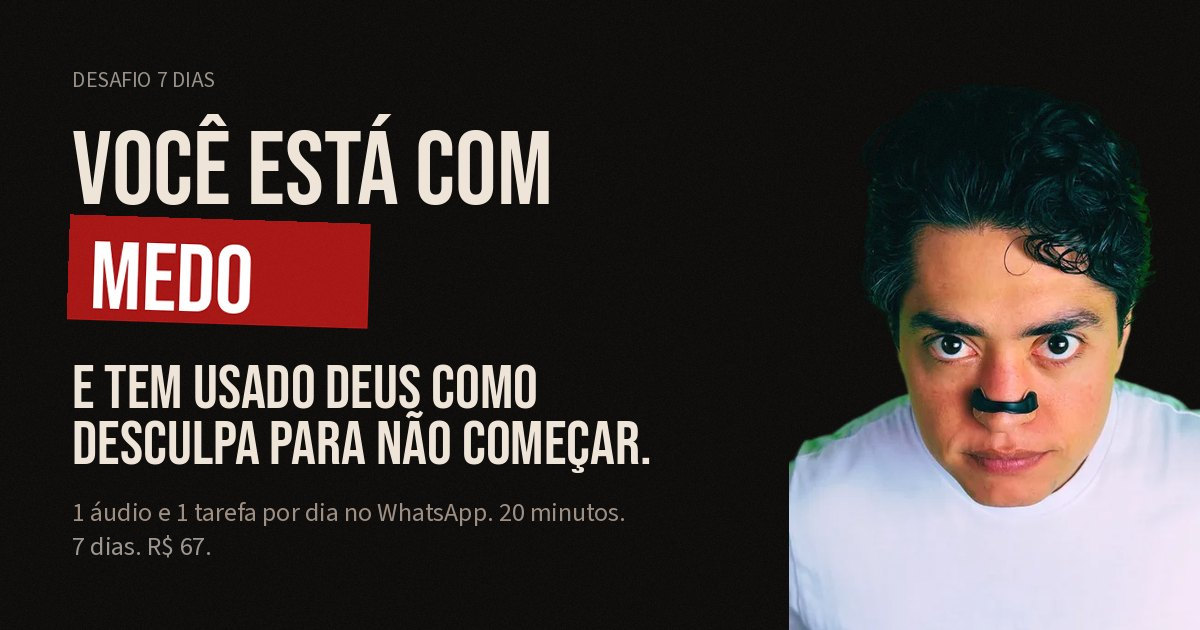
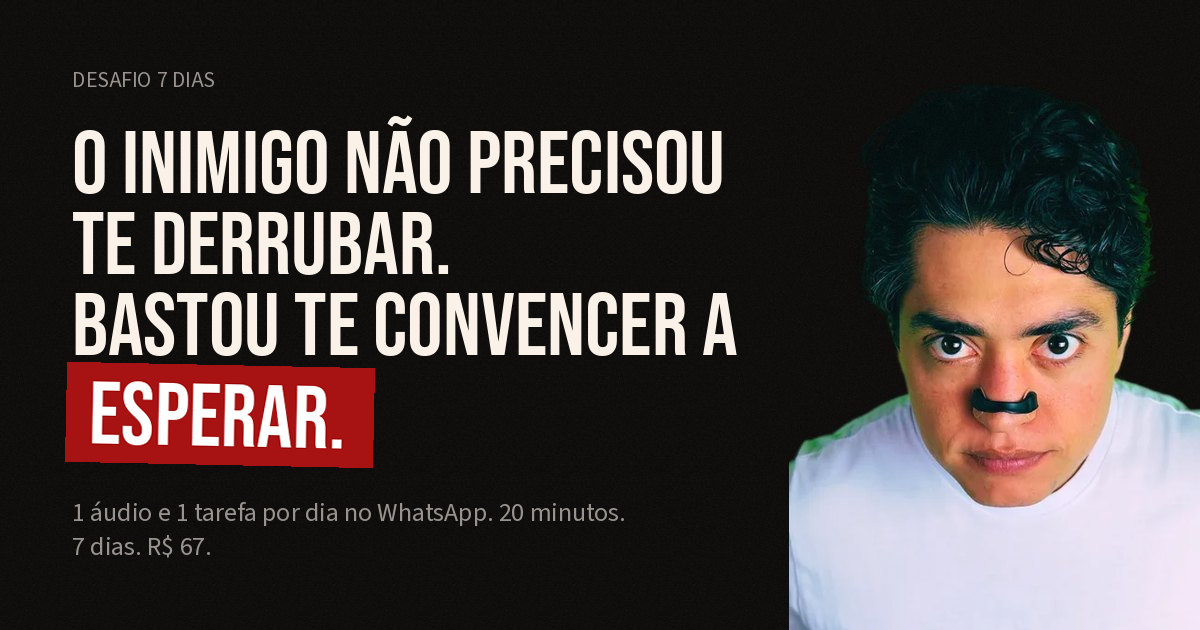
Angulo novo: o inimigo como antagonista da pagina
Aplica o documento de anotacoes do mentor no v7, adaptado de 21 para 7 dias.
Entram: como-funciona (headline, sub e as 3 fases), card de bonus, headline e
sub da oferta, secao do Ewertton inteira, fecho da garantia, FAQ inteiro e CTA
final. O botao final vira "Quero desenterrar meu talento".

Hero trocado: "Voce esta com medo / e tem usado Deus como desculpa" da lugar a
"O inimigo nao precisou te derrubar / Bastou te convencer a esperar". Mesma
altura renderizada no mobile, 309px em 6 linhas num container de 350px, entao
a dobra nao regride. og-image.jpg refeita com a headline nova, mesmas fontes
(Bebas Neue e Source Sans 3), carimbo --blood em "ESPERAR." e a foto original
preservada pixel a pixel.

Secao problema alinhada ao angulo em 4 pontos, incluindo o cabecalho da tabela
e o aria-label dela.

Bonus corrigido pra oferta real do produto de 7 dias: 1 aula liberada no dia 7
pra quem mostra o resultado, e 1:1 de 20 minutos pra quem enviou resultado
todos os dias. Era "2 aulas + 30 min ao completar". A ancora de R$ 497 fica.
O 1:1 volta pro FAQ "E depois dos 7 dias?", de onde a versao do documento
tinha tirado.

Selo da oferta passa de "Preco de lancamento" para "Vagas limitadas".

Desvio consciente do documento: no FAQ de tecnologia ele dizia "responder ao
audio de 20 minutos por dia". O audio e de 2 min e a tarefa e de 20; publicar
como estava criava contradicao com o hero na mesma pagina.

Changed region(s): [[0.0308, 0.181, 0.6167, 0.754]]

diff --git a/index.html b/index.html
@@ -21,7 +21,7 @@
   <meta property="og:image" content="https://ebravoholding.com/pages/desafios/v7/og-image.jpg">
   <meta property="og:image:width" content="1200">
   <meta property="og:image:height" content="630">
-  <meta property="og:image:alt" content="Você está com medo e tem usado Deus como desculpa para não começar. Desafio 7 Dias.">
+  <meta property="og:image:alt" content="O inimigo não precisou te derrubar. Bastou te convencer a esperar. Desafio 7 Dias.">
   <meta name="twitter:card" content="summary_large_image">
   <meta name="twitter:image" content="https://ebravoholding.com/pages/desafios/v7/og-image.jpg">
   <!-- Favicon -->
@@ -713,11 +713,11 @@
         <div>
           <span class="hero-eyebrow">Desafio 7 Dias &middot; O Talento Enterrado</span>
           <h1>
-            <span class="hero-h1-p1"><span class="text-accent">Você está com medo</span><br>e tem usado Deus como desculpa para não começar.</span>
+            <span class="hero-h1-p1">O inimigo não precisou te derrubar.<br>Bastou te convencer a <span class="text-accent">esperar.</span></span>
             <span class="hero-h1-p2">Todo dia, 7h da manhã no seu WhatsApp: 1 áudio de 2min e 1 tarefa prática.</span>
           </h1>
           <p class="hero-sub">
-            20 minutos por dia, 7 dias, pra parar de enterrar o que Deus te deu e começar a multiplicar.
+            20 minutos por dia, 7 dias, pra desenterrar o que Deus te deu e retomar o terreno que o inimigo tomou.
           </p>
           <div class="hero-cta-wrap">
             <a href="https://pay.hotmart.com/W105539649V?checkoutMode=10" class="btn btn--lg" target="_blank"
@@ -882,20 +882,20 @@
       <h2 class="fade-up">
         <span class="problema-h1-p1">"Esperar o tempo de Deus"<br>virou o seu <span
             class="text-accent">esconderijo.</span></span>
-        <span class="problema-h1-p2">Não é preguiça. É medo travestido de espiritualidade.</span>
+        <span class="problema-h1-p2">Não é preguiça. É o inimigo usando o medo travestido de espiritualidade.</span>
       </h2>
       <div class="problema-body fade-up">
         <p>Você ora pelo seu chamado e adia o que Ele já mandou fazer. A lista cresce, o domingo à noite pesa, e no
           fundo bate a frase que você não diz em voz alta: "tenho medo que Deus se decepcione comigo por eu não estar
-          usando o que Ele me deu."</p>
+          usando o que Ele me deu." Essa frase não nasceu em você. Foi plantada.</p>
         <p style="margin-top:1rem">Na Parábola dos Talentos, o servo não foi repreendido por tentar e errar. Foi
           repreendido por <strong>enterrar o talento com medo.</strong></p>
       </div>
       <div class="fade-up" style="transition-delay:0.1s; overflow-x:auto; margin-top:2.5rem;">
-        <table class="vs-table" role="table" aria-label="A mentira que te paralisa vs a verdade que liberta">
+        <table class="vs-table" role="table" aria-label="A mentira que o inimigo te vendeu vs a verdade que liberta">
           <thead>
             <tr>
-              <th class="col-before">A mentira que te paralisa</th>
+              <th class="col-before">A mentira que o inimigo te vendeu</th>
               <th class="col-vs">VS</th>
               <th class="col-after">A verdade que liberta</th>
             </tr>
@@ -919,7 +919,7 @@
           </tbody>
         </table>
       </div>
-      <p class="problema-hook fade-up">A saída não é esperar mais. É começar a caminhar.</p>
+      <p class="problema-hook fade-up">A saída não é esperar mais. É retomar o terreno.</p>
       <div class="fade-up" style="text-align:center; margin-top:1.75rem">
         <a href="https://pay.hotmart.com/W105539649V?checkoutMode=10" class="btn btn--lg" target="_blank"
           rel="noopener">
@@ -934,28 +934,31 @@
 ============================================================ -->
   <section id="como-funciona" class="section--xl">
     <div class="container">
-      <h2 class="cf-headline fade-up">7 dias. 1 tarefa<br>por dia. <span class="text-accent">Talento
-          desenterrado.</span></h2>
-      <p class="cf-sub fade-up">E cada dia constrói sobre o anterior, como uma corrente que não pode quebrar.</p>
+      <h2 class="cf-headline fade-up">7 dias. 1 tarefa<br>por dia. <span class="text-accent">Território
+          reconquistado.</span></h2>
+      <p class="cf-sub fade-up">Cada dia quebra um elo da corrente que o inimigo usou pra te manter parado.</p>
 
       <div class="fases-grid">
         <div class="fase-card fade-up" style="transition-delay:0.05s">
           <div class="fase-num" aria-hidden="true">01</div>
           <div class="fase-label">Dias 1 e 2, Recebe segundo sua capacidade</div>
           <p class="fase-desc">Você esvazia a mente: joga toda pendência num lugar só, o Surrão, e resolve na hora tudo
-            que leva menos de 2 minutos. O peso que você carregou por anos sai em dias.</p>
+            que leva menos de 2 minutos. O caos mental que o inimigo usava pra te paralisar perde o esconderijo, porque
+            confusão é ferramenta dele (1 Coríntios 14:33), não sua identidade.</p>
         </div>
         <div class="fase-card fade-up" style="transition-delay:0.10s">
           <div class="fase-num" aria-hidden="true">02</div>
           <div class="fase-label">Dias 3 a 5, Negocia e multiplica</div>
-          <p class="fase-desc">Você para de apagar incêndio. Separa o que muda sua vida em 6 meses do que só grita
-            urgente, dá hora marcada pra isso e finalmente nomeia o projeto que vinha enterrando.</p>
+          <p class="fase-desc">Você para de viver apagando incêndio que o inimigo ateia pra te distrair do que realmente
+            importa. Separa o que muda sua vida em 6 meses do que só grita urgência, dá hora marcada e finalmente nomeia
+            o projeto que vinha sendo sufocado.</p>
         </div>
         <div class="fase-card fade-up" style="transition-delay:0.15s">
           <div class="fase-num" aria-hidden="true">03</div>
           <div class="fase-label">Dias 6 e 7, Presta contas e entra no gozo</div>
-          <p class="fase-desc">O sistema vira hábito. Você presta contas com honestidade (passou de 50%, já é vitória) e
-            termina vendo, preto no branco, quem você deixou de ser.</p>
+          <p class="fase-desc">O sistema vira hábito e a fortaleza cai de vez. Você presta contas com honestidade diante
+            de Deus (passou de 50%, já é vitória sobre o adiamento) e termina vendo, preto no branco, quantos dias você
+            reconquistou do inimigo.</p>
         </div>
       </div>
 
@@ -1117,10 +1120,10 @@
                  (display:flex) ele virava item de flex ao lado do ícone e quebrava em 3 linhas.
                  O CSS do .bonus-tag (inline-block + margin-bottom) já era escrito pra este lugar. -->
             <span class="bonus-tag">Bônus &middot; R$ 497</span>
-            <div class="entregavel-title">Bônus: 2 aulas + Sessão 1:1</div>
-            <p class="entregavel-desc">Duas aulas bônus: "O que são projetos" e "Google Tasks + Agenda +
-              Drive". Mais uma sessão 1:1 de 30 minutos comigo pra quem completa os 7 dias e envia o
-              progresso.</p>
+            <div class="entregavel-title">Bônus: aula + Sessão 1:1</div>
+            <p class="entregavel-desc">Aula bônus liberada no dia 7, pra quem mostra o resultado da semana. Mais uma
+              sessão 1:1 de 20 minutos comigo pra quem enviou o resultado todos os dias, porque ninguém sai da fortaleza
+              sozinho e eu não vou te deixar lutar essa guerra sem cobertura.</p>
           </div>
         </div>
 
@@ -1234,12 +1237,14 @@
 ============================================================ -->
   <section id="oferta" class="section--xl section--paper">
     <div class="container">
-      <h2 class="oferta-headline fade-up">Quanto vale<br><span class="text-accent">Multiplicar um talento?</span></h2>
-      <p class="oferta-sub fade-up">O preço sobe quando encerrar esse lançamento. Sem data certa. Quando fechar, fecha.
+      <h2 class="oferta-headline fade-up">Quanto vale multiplicar o talento<br><span class="text-accent">que o inimigo
+          queria ver enterrado pra sempre?</span></h2>
+      <p class="oferta-sub fade-up">O preço sobe quando encerrar esse lançamento. Sem data certa. Quando fechar, fecha,
+        assim como as portas que você não atravessou nos últimos anos.
       </p>
 
       <div class="oferta-box fade-up">
-        <span class="oferta-tag">Preço de lançamento</span>
+        <span class="oferta-tag">Vagas limitadas</span>
 
         <ul class="oferta-checklist" aria-label="O que está incluído">
           <li>
@@ -1275,7 +1280,7 @@
               aria-hidden="true">
               <polyline points="20 6 9 17 4 12" />
             </svg>
-            <strong>2 aulas bônus + Sessão 1:1 de 30 min ao completar &middot; bônus R$ 497</strong>
+            <strong>Aula bônus no dia 7 + Sessão 1:1 de 20 min &middot; bônus R$ 497</strong>
           </li>
         </ul>
 
@@ -1330,22 +1335,23 @@
           </div>
         </div>
         <div class="fade-up" style="transition-delay:0.1s">
-          <h2 class="ewertton-headline">Meu problema nunca foi preguiça.<br>Era <span class="text-accent">medo
-              disfarçado de fé.</span></h2>
+          <h2 class="ewertton-headline">Meu problema nunca foi preguiça.<br>Era o inimigo usando o <span
+              class="text-accent">medo travestido de fé</span> pra me manter enterrado.</h2>
           <div class="ewertton-body">
-            <p>Eu procrastinei 27 anos. Do ensino fundamental aos 38. Sabia o que precisava fazer e não fazia, e ainda
-              carregava a culpa de estar enterrando o que Deus tinha me dado.</p>
+            <p>Procrastinei 27 anos. Do ensino fundamental aos 38. Sabia o que Deus tinha me chamado pra fazer e não
+              fazia, e ainda carregava a culpa de estar negligenciando a obra, sem entender que negligência tem nome na
+              Palavra: Remiyah (Jeremias 48:10).</p>
             <p style="margin-top:0.75rem">Em fevereiro de 2024 minha filha nasceu e eu fiz uma promessa diante de Deus:
-              ela não vai me ouvir contar o que eu poderia ter sido, vai me ver vivendo o que fui chamado a fazer.
-              Larguei mais de 20 anos de CLT. E descobri que meu problema nunca foi preguiça nem falta de tempo. Era
-              medo travestido de espiritualidade.</p>
-            <p style="margin-top:0.75rem">Esse desafio é o caminho que eu queria ter recebido lá atrás, a porta de
-              entrada do Método Remiyah. Remiyah é a palavra que a Bíblia usa pra negligência na obra de Deus (Jeremias
-              48:10). Dei esse nome porque o método existe pra matar exatamente isso: o cristão que enterra o que
-              recebeu por medo de tentar. A Parábola dos Talentos costura tudo: você não recebeu o que tem pra enterrar
-              por medo. Recebeu pra multiplicar.</p>
+              ela não vai crescer ouvindo o pai contar o que poderia ter sido, vai ver o pai vivendo o chamado. Larguei
+              mais de 20 anos de CLT e enfrentei de frente a fortaleza que eu mesmo ajudei o inimigo a construir na
+              minha cabeça.</p>
+            <p style="margin-top:0.75rem">Esse desafio é a arma que eu queria ter recebido lá atrás. É a porta de
+              entrada do Método Remiyah, criado pra matar exatamente isso: o cristão que enterra o que recebeu porque
+              tem medo, e chama esse medo de "esperar em Deus". A Parábola dos Talentos costura tudo: você não recebeu o
+              que tem pra deixar o inimigo te convencer a enterrar. Recebeu pra multiplicar, e cada dia parado é terreno
+              que ele não devolve sozinho.</p>
           </div>
-          <blockquote class="ewertton-quote">"Tiro cristãos da procrastinação. Ponto."</blockquote>
+          <blockquote class="ewertton-quote">"Tiro cristãos da procrastinação. É guerra, não terapia."</blockquote>
           <div class="ewertton-cargo">Ewertton Bravo &middot; Fé e Procrastinação</div>
         </div>
       </div>
@@ -1376,7 +1382,7 @@
       <div class="garantia-body fade-up">
         <p>Se em 7 dias você achar que o Desafio não é pra você, por qualquer motivo, é só mandar mensagem. Devolvo
           100% do valor. Sem formulário, sem pergunta, sem burocracia.</p>
-        <p>Você não perde nada tentando. Perde se continuar parado.</p>
+        <p>Você não perde nada tentando romper a fortaleza. Perde se continuar dando terreno pro inimigo.</p>
       </div>
     </div>
   </section>
@@ -1386,7 +1392,8 @@
 ============================================================ -->
   <section id="faq" class="section--xl">
     <div class="container--narrow">
-      <h2 class="faq-headline fade-up">Antes de ir embora, deixa eu responder<br>o que tá na sua cabeça.</h2>
+      <h2 class="faq-headline fade-up">Antes de ir embora, deixa eu responder<br>o que o inimigo está sussurrando agora
+        pra te fazer fechar essa página.</h2>
       <div class="faq-list fade-up" role="list">
 
         <div class="faq-item" role="listitem">
@@ -1398,8 +1405,8 @@
             </svg>
           </button>
           <div id="faq-1" class="faq-answer" role="region" aria-label="Resposta">
-            Porque ele não depende de você lembrar de usar. Chega no seu WhatsApp todo dia com o próximo passo exato.
-            Você não precisa de mais força de vontade. Precisa de menos.
+            Porque as outras tentativas atacaram o sintoma (organização, disciplina). Esse ataca a raiz: o medo
+            espiritualizado que te mantém parado. Sem derrubar a raiz, qualquer método dura uma semana.
           </div>
         </div>
 
@@ -1412,8 +1419,8 @@
             </svg>
           </button>
           <div id="faq-2" class="faq-answer" role="region" aria-label="Resposta">
-            Resolvem. A maioria não precisa de mais tempo, precisa de 1 ação clara por dia. É isso que o desafio
-            entrega, sem sobrecarga.
+            Não é o tempo que resolve. É a obediência diária que quebra o padrão. O inimigo não teme sua boa intenção,
+            teme sua ação repetida.
           </div>
         </div>
 
@@ -1426,8 +1433,7 @@
             </svg>
           </button>
           <div id="faq-3" class="faq-answer" role="region" aria-label="Resposta">
-            Os dois andam juntos. A fé é a espinha dorsal, não enfeite. Mas cada dia tem tarefa concreta. Você sai com
-            um sistema funcionando, não com um devocional bonito.
+            As duas coisas, e propositalmente. Fé sem prática é exatamente o esconderijo que te trouxe até aqui.
           </div>
         </div>
 
@@ -1440,8 +1446,8 @@
             </svg>
           </button>
           <div id="faq-4" class="faq-answer" role="region" aria-label="Resposta">
-            Não. Começa do zero. Cada instrução é simples, feita pra quem nunca leu nada sobre organização. Só precisa
-            do celular na mão.
+            Não. Você precisa só ouvir o áudio e fazer a tarefa de 20 minutos por dia. O sistema carrega o peso técnico,
+            você carrega a obediência.
           </div>
         </div>
 
@@ -1454,8 +1460,7 @@
             </svg>
           </button>
           <div id="faq-5" class="faq-answer" role="region" aria-label="Resposta">
-            Depois da compra na Hotmart você recebe as instruções pra começar pelo WhatsApp. Todo dia de manhã chega o
-            áudio e a tarefa do dia.
+            Direto no seu WhatsApp, 7h da manhã, todos os dias, por 7 dias.
           </div>
         </div>
 
@@ -1468,7 +1473,7 @@
             </svg>
           </button>
           <div id="faq-6" class="faq-answer" role="region" aria-label="Resposta">
-            Sim. Me manda no WhatsApp. Travar faz parte. A diferença é não ficar parado sozinho com isso.
+            Sim. Acesso direto a mim durante os 7 dias. Ninguém enfrenta essa guerra sozinho.
           </div>
         </div>
 
@@ -1481,8 +1486,9 @@
             </svg>
           </button>
           <div id="faq-7" class="faq-answer" role="region" aria-label="Resposta">
-            Você sai com o sistema instalado. E quem completa enviando o progresso ganha uma sessão 1:1 de 30 min comigo
-            pra definir os próximos passos.
+            O sistema vira hábito espiritual e prático, você continua com as ferramentas, sem mim mandando o áudio,
+            porque a fortaleza já caiu. E quem enviou o resultado todos os dias fecha comigo numa sessão 1:1 de 20
+            minutos.
           </div>
         </div>
 
@@ -1495,8 +1501,7 @@
             </svg>
           </button>
           <div id="faq-8" class="faq-answer" role="region" aria-label="Resposta">
-            Faz, em tarefas pontuais, pra você ganhar tempo e investir esse tempo no que importa: oração, família,
-            trabalho. Ferramenta é mordomia do tempo, não muleta.
+            Só como apoio de organização (Google Tasks, Agenda, Drive), nunca no lugar da sua obediência diária.
           </div>
         </div>
 
@@ -1509,13 +1514,15 @@
 ============================================================ -->
   <section id="cta-final" class="section--xl">
     <div class="container--narrow">
-      <h2 class="cta-final-headline fade-up">Você já sabe o que Deus te chamou pra fazer. A pergunta é:<br>vai esperar
-        mais uma "segunda que nunca vem"?</h2>
-      <p class="cta-final-body fade-up">A próxima vai ser igual à anterior se você não mudar o sistema agora.</p>
+      <h2 class="cta-final-headline fade-up">Você já sabe exatamente o que Deus te chamou pra fazer. A pergunta não é
+        "quando".<br>É até quando você vai deixar o inimigo administrar sua agenda.</h2>
+      <p class="cta-final-body fade-up">A segunda-feira que vem vai ser idêntica a essa se você não quebrar o padrão
+        agora. E daqui a 1 ano você vai estar exatamente onde está hoje, só que com mais um ano de talento enterrado e
+        mais um ano de terreno cedido.</p>
       <div style="text-align:center" class="fade-up">
         <a href="https://pay.hotmart.com/W105539649V?checkoutMode=10" class="btn btn--lg" target="_blank"
           rel="noopener">
-          Quero sair do amanhã &middot; R$ 67
+          Quero desenterrar meu talento &middot; R$ 67
         </a>
         <div class="trust-row trust-row--light" style="justify-content:center; margin-top:1rem">
           <span>
